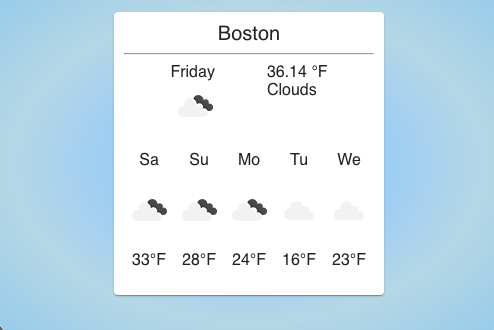
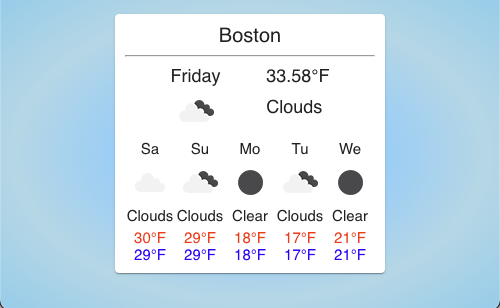
add min/max temp

diff --git a/src/components/forecast.tsx b/src/components/forecast.tsx
@@ -4,20 +4,27 @@ import styled from "styled-components";
 
 const Forecast = (props: any) => {
   if (props.forecast) {
-    return props.forecast.map((day: string) => {
+    return props.forecast.map((data: any) => {
+      const [day, icon, description, tempMin, tempMax] = data;
       return (
-        <Day key={day[0]}>
-          <p>{day[0]}</p>
+        <Item key={day}>
+          <Day>{day}</Day>
           <img
-            src={`http://openweathermap.org/img/wn/${day[1]}.png`}
+            src={`http://openweathermap.org/img/wn/${icon}.png`}
             alt="weatherIcon"
           />
-          <p id="Temp">
-            {day[2]}
+          <Description>{description}</Description>
+          <TempMax>
+            {tempMax}
             <span>&deg;</span>
             <span>F</span>
-          </p>
-        </Day>
+          </TempMax>
+          <TempMin>
+            {tempMin}
+            <span>&deg;</span>
+            <span>F</span>
+          </TempMin>
+        </Item>
       );
     });
   } else {
@@ -29,7 +36,25 @@ const Flex = styled.div`
   display: flex;
 `;
 
-const Day = styled(Flex)`
+const Text = styled.div`
+  font-size: 15px;
+`;
+
+const Day = styled(Text)``;
+
+const TempMin = styled(Text)`
+  color: blue;
+`;
+
+const TempMax = styled(Text)`
+  color: red;
+`;
+
+const Description = styled(Text)`
+  margin-bottom: 5px;
+`;
+
+const Item = styled(Flex)`
   align-items: center;
   flex-direction: column;
 `;

diff --git a/src/components/weather.tsx b/src/components/weather.tsx
@@ -18,7 +18,7 @@ const CurrentWeather = (props: any) => {
         <hr />
         <InfoContainer>
           <div>
-            <div>{day}</div>
+            <Day>{day}</Day>
             <img
               src={`http://openweathermap.org/img/wn/${icon}.png`}
               alt="weatherIcon"
@@ -26,10 +26,11 @@ const CurrentWeather = (props: any) => {
           </div>
           <div>
             <Temperature>
-              {temp} <span>&deg;</span>
+              {temp}
+              <span>&deg;</span>
               <span>F</span>
             </Temperature>
-            <div>{description}</div>
+            <Description>{description}</Description>
           </div>
         </InfoContainer>
       </WeatherInfo>
@@ -43,6 +44,10 @@ const Flex = styled.div`
   display: flex;
 `;
 
+const Text = styled.div`
+  font-size: 18px;
+`;
+
 const WeatherInfo = styled.div`
   width: 100%;
 `;
@@ -52,7 +57,13 @@ const CityTitle = styled(Flex)`
   font-size: 20px;
 `;
 
-const Temperature = styled.div``;
+const Day = styled(Text)``;
+
+const Temperature = styled(Text)`
+  margin-bottom: 10px;
+`;
+
+const Description = styled(Text)``;
 
 const InfoContainer = styled(Flex)`
   flex-direction: row;

diff --git a/src/App.tsx b/src/App.tsx
@@ -48,10 +48,12 @@ const App: React.FunctionComponent<AllWeather> = () => {
       for (let i = 1; i < weatherList.length; i += 8) {
         const date = fromUnixTime(weatherList[i].dt);
         const day = format(date, "EEEEEE");
-        const weatherIcon = weatherList[i].weather[0].icon;
-        const Temp = Math.floor(weatherList[i].main.temp);
+        const icon = weatherList[i].weather[0].icon;
+        const description = weatherList[i].weather[0].main;
+        const tempMin = Math.floor(weatherList[i].main.temp_min);
+        const tempMax = Math.floor(weatherList[i].main.temp_max);
 
-        fiveDayForecast.push([day, weatherIcon, Temp]);
+        fiveDayForecast.push([day, icon, description, tempMin, tempMax]);
       }
       setForecast(fiveDayForecast);
     }
